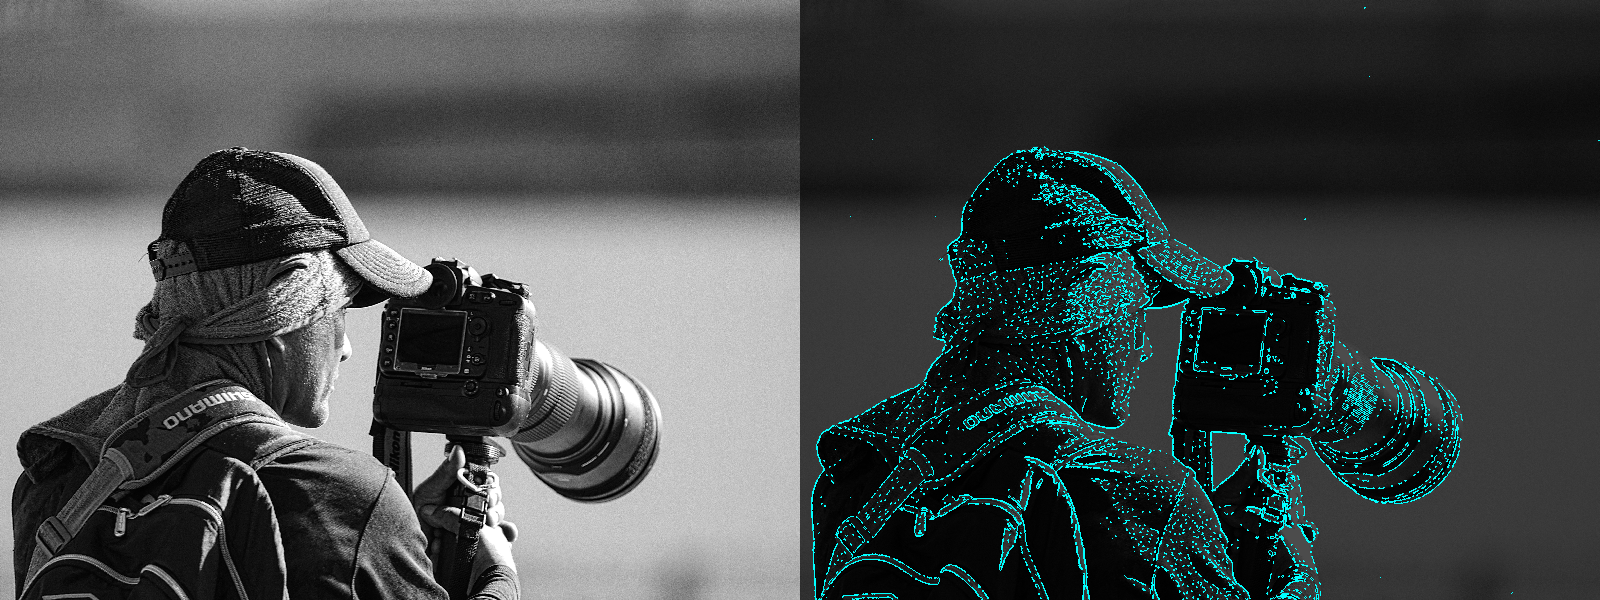
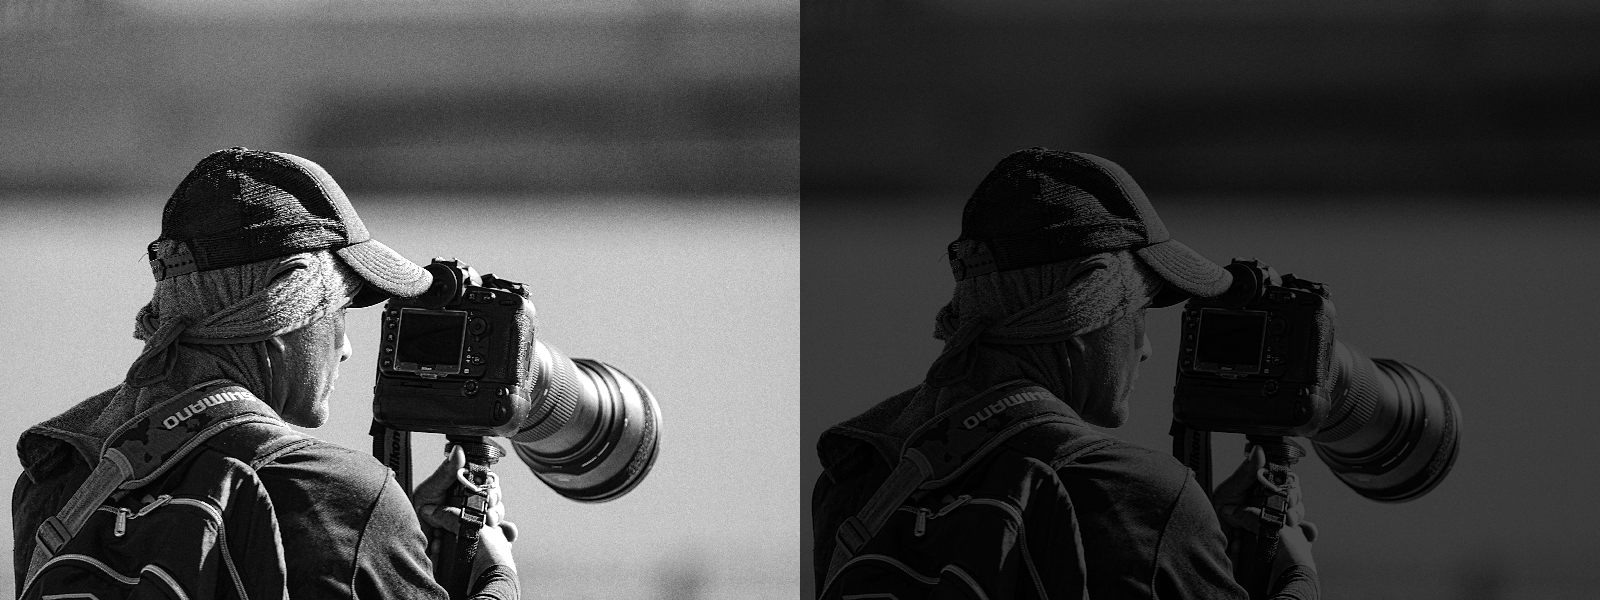
made it look good

diff --git a/aco_edge.cpp b/aco_edge.cpp
@@ -3,7 +3,10 @@
  *
  * Usage:
  *   ./aco_edge <input_image>
- */
+ * 
+ * // 9nstead of using edge threshold try to use a mathematical function to map pheromone intensity to a color gradient for edges. This way, even sub-threshold edges can be visualized with a color that reflects their strength, rather than being completely invisible.
+    // also include only sobel operator based gradient in the heuristic, and ignore the pheromone for the heuristic (i.e. set alpha=0) to make it more visually intuitive and less prone to early stagnation. The pheromone will still guide the ants' movement, but the initial edge strength will be solely determined by the visual gradient, which should produce more visually appealing results.
+*/
 
 #include <algorithm>
 #include <cmath>
@@ -26,10 +29,10 @@ static const float BETA = 1.2f;   // Increased to emphasize visual gradient heav
 static const float RHO = 0.1f;
 static const float Q = 1.0f;
 static const float TAU_MIN = 0.01f;
-static const float TAU_MAX = 9.0f; // Max-Min limit to prevent pheromone spikes
+static const float TAU_MAX = 12.0f; // Max-Min limit to prevent pheromone spikes
 static const float TAU0 = 0.1f;
 static const int ANT_STEPS = 30;
-static const float EDGE_THRESHOLD = 0.35f; // Threshold is relative to TAU_MAX
+static const float EDGE_THRESHOLD = f; // Threshold is relative to TAU_MAX
 static const float MIN_ETA = 0.05f;        // Ants die below this gradient
 
 #define max(a,b) (((a) > (b)) ? (a) : (b))
